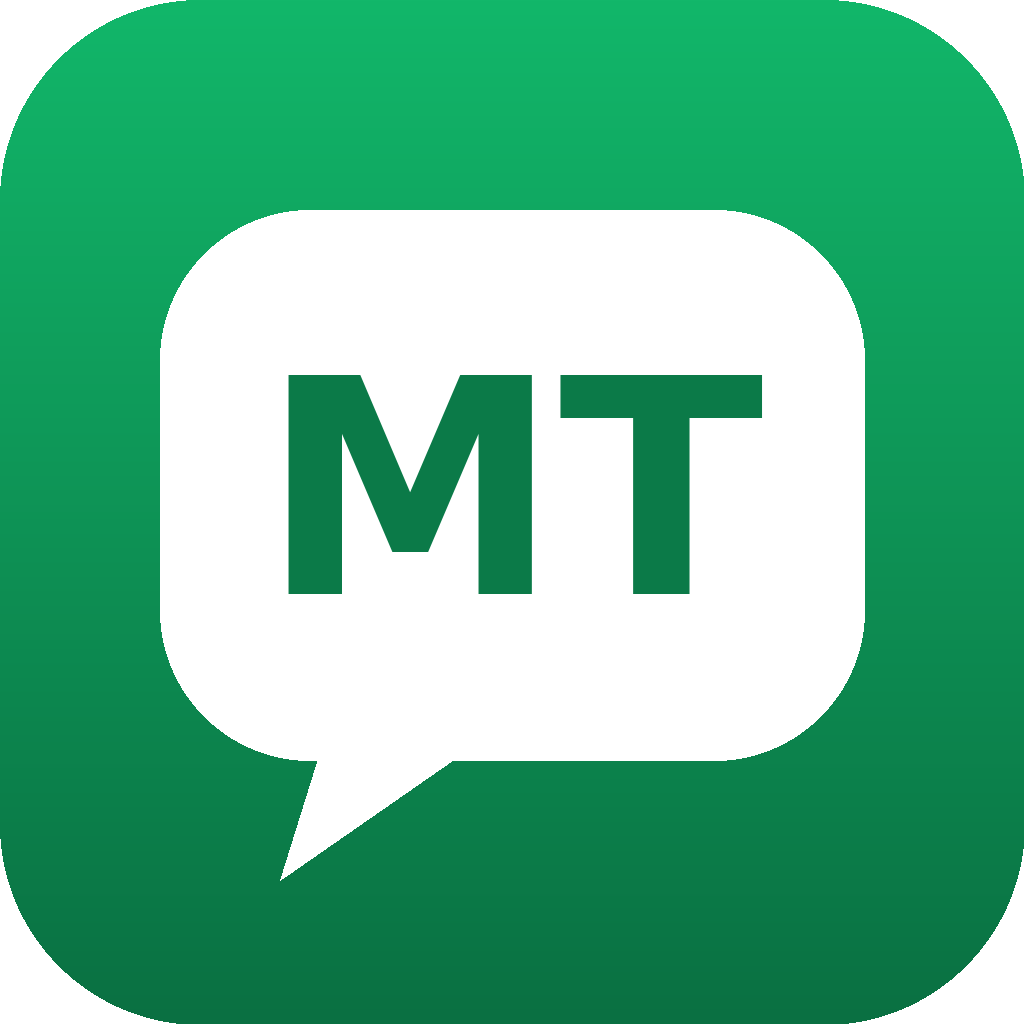
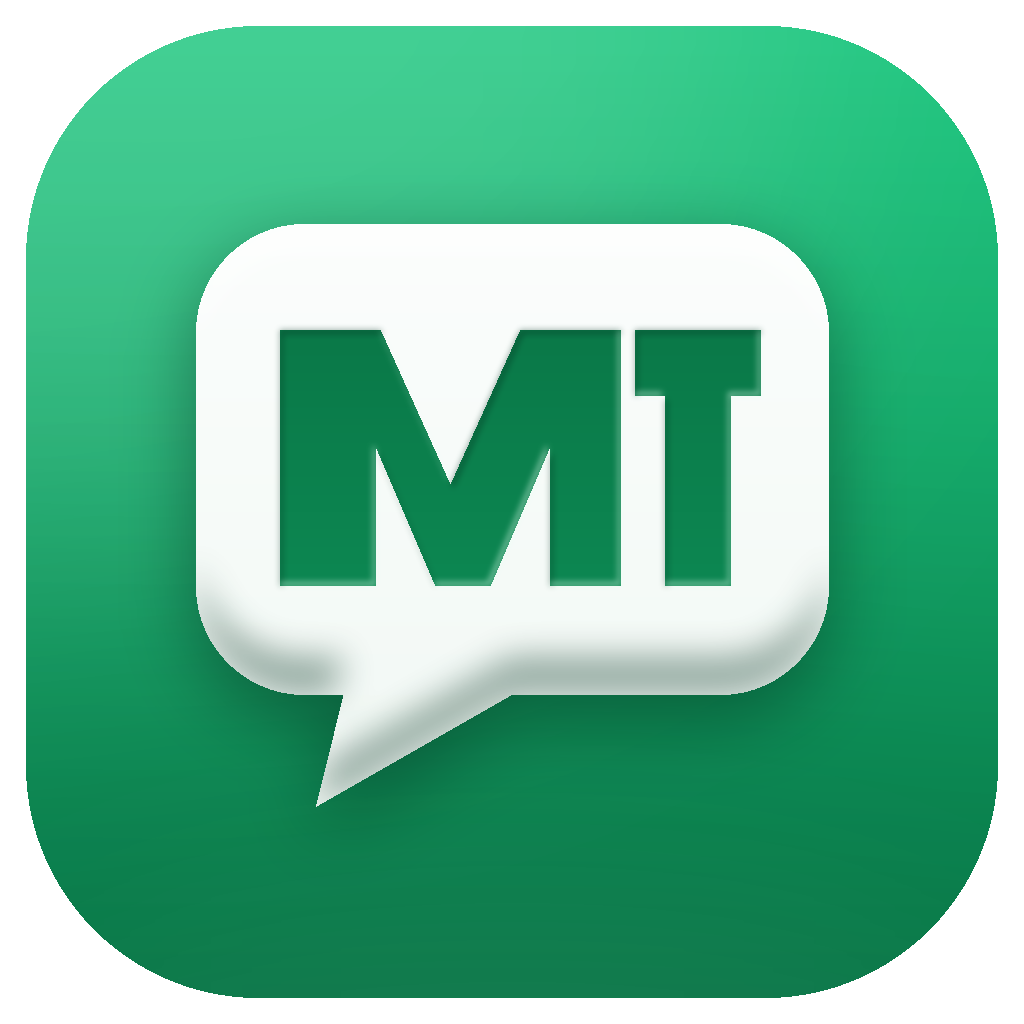
重构图标为拟态原生风格

diff --git a/tool/generate_launcher_icon.py b/tool/generate_launcher_icon.py
@@ -1,44 +1,182 @@
 #!/usr/bin/env python3
-"""Generate consistent black MT Forum launcher icons for Android and project previews."""
+"""生成拟态（Neumorphism）风格的原生质感 MT 论坛启动图标。
+
+所有尺寸都从同一张 1024px 母版缩小，保证不同密度下视觉一致；
+同时输出自适应图标（Android 8.0+）的前景 / 背景图层。
+"""
 from pathlib import Path
-from PIL import Image, ImageDraw, ImageFont
+
+from PIL import Image, ImageChops, ImageDraw, ImageFilter
 
 ROOT = Path(__file__).resolve().parents[1]
-BG = (8, 8, 8, 255)
-WHITE = (255, 255, 255, 255)
-INK = (8, 8, 8, 255)
+CANVAS = 1024
 
-def make_icon(size: int) -> Image.Image:
-    scale = size / 1024
-    im = Image.new("RGBA", (size, size), BG)
-    d = ImageDraw.Draw(im)
-    # Rounded app tile, with enough padding for Android launcher masks.
-    inset = int(72 * scale)
-    radius = int(220 * scale)
-    d.rounded_rectangle((inset, inset, size-inset, size-inset),
-                        radius=radius, fill=(18, 18, 18, 255),
-                        outline=(48, 48, 48, 255), width=max(1, int(3*scale)))
-    # Speech bubble silhouette.
-    box = (int(205*scale), int(215*scale), int(819*scale), int(690*scale))
-    d.rounded_rectangle(box, radius=int(105*scale), fill=WHITE)
-    d.polygon([(int(365*scale), int(650*scale)),
-               (int(340*scale), int(800*scale)),
-               (int(505*scale), int(680*scale))], fill=WHITE)
-    # Custom geometric MT lettermark; avoids font/device differences.
-    def poly(points):
-        d.polygon([(int(x*scale), int(y*scale)) for x,y in points], fill=INK)
-    poly([(280,330),(380,330),(450,485),(520,330),(620,330),
-          (620,585),(550,585),(550,445),(490,585),(435,585),
-          (375,445),(375,585),(280,585)])
-    poly([(635,330),(760,330),(760,395),(730,395),(730,585),
-          (665,585),(665,395),(635,395)])
-    return im
+# 表面：品牌绿的柔和渐变，顶部受光、底部压暗。
+SURFACE_TOP = (30, 200, 128)
+SURFACE_BOTTOM = (8, 136, 80)
+DEPTH = (2, 48, 30)
+LIGHT = (228, 255, 241)
 
-(ROOT / "icon_1024.png").parent.mkdir(parents=True, exist_ok=True)
-make_icon(1024).save(ROOT / "icon_1024.png", optimize=True)
-res = ROOT / "android/app/src/main/res"
-for density, size in {"mdpi":48, "hdpi":72, "xhdpi":96, "xxhdpi":144, "xxxhdpi":192}.items():
-    dest = res / f"mipmap-{density}/ic_launcher.png"
-    dest.parent.mkdir(parents=True, exist_ok=True)
-    make_icon(size).save(dest, optimize=True)
-print("Generated icon_1024.png and all Android legacy launcher PNG densities.")
+# 气泡：白色到冷灰绿，模拟亚光材质。
+BUBBLE_TOP = (255, 255, 255)
+BUBBLE_BOTTOM = (237, 246, 241)
+BUBBLE_BOX = (196, 224, 828, 694)
+BUBBLE_RADIUS = 108
+BUBBLE_TAIL = [(352, 660), (316, 806), (526, 686)]
+
+# MT 字标：内凹雕刻，上深下浅。
+LETTER_TOP = (6, 101, 59)
+LETTER_BOTTOM = (17, 160, 98)
+MT_M = [(280, 330), (380, 330), (450, 485), (520, 330), (620, 330),
+        (620, 585), (550, 585), (550, 445), (490, 585), (435, 585),
+        (375, 445), (375, 585), (280, 585)]
+MT_T = [(635, 330), (760, 330), (760, 395), (730, 395), (730, 585),
+        (665, 585), (665, 395), (635, 395)]
+
+
+def vertical_gradient(size, top, bottom):
+    strip = Image.new("RGB", (1, size))
+    px = strip.load()
+    for y in range(size):
+        t = y / max(1, size - 1)
+        px[0, y] = tuple(round(top[i] + (bottom[i] - top[i]) * t) for i in range(3))
+    return strip.resize((size, size), Image.BILINEAR).convert("RGBA")
+
+
+def soft_blob(size, box, color, blur, alpha):
+    """柔和光斑；透明区域保留同色，避免高斯模糊产生暗边。"""
+    layer = Image.new("RGBA", (size, size), tuple(color) + (0,))
+    ImageDraw.Draw(layer).ellipse(box, fill=tuple(color) + (alpha,))
+    return layer.filter(ImageFilter.GaussianBlur(blur))
+
+
+def rounded_mask(size, inset, radius):
+    mask = Image.new("L", (size, size), 0)
+    ImageDraw.Draw(mask).rounded_rectangle(
+        (inset, inset, size - inset - 1, size - inset - 1), radius=radius, fill=255)
+    return mask
+
+
+def render_surface(size, rounded):
+    img = vertical_gradient(size, SURFACE_TOP, SURFACE_BOTTOM)
+    # 左上角受光，制造柔和的隆起感。
+    img = Image.alpha_composite(img, soft_blob(size, (-340, -440, 800, 540), (255, 255, 255), 175, 42))
+    # 右下角压暗，收出体积。
+    img = Image.alpha_composite(img, soft_blob(size, (-260, 620, 1300, 1470), DEPTH, 200, 62))
+    # 底边一条极淡的反光，避免边缘发死。
+    img = Image.alpha_composite(img, soft_blob(size, (40, 910, 984, 1160), (255, 255, 255), 95, 14))
+    if rounded:
+        img.putalpha(rounded_mask(size, 26, 232))
+    return img
+
+
+def bubble_mask(size, scale):
+    mask = Image.new("L", (size, size), 0)
+    draw = ImageDraw.Draw(mask)
+
+    def point(x, y):
+        return (512 + (x - 512) * scale, 515 + (y - 515) * scale)
+
+    draw.rounded_rectangle(
+        (*point(BUBBLE_BOX[0], BUBBLE_BOX[1]), *point(BUBBLE_BOX[2], BUBBLE_BOX[3])),
+        radius=int(BUBBLE_RADIUS * scale), fill=255)
+    draw.polygon([point(x, y) for x, y in BUBBLE_TAIL], fill=255)
+    return mask
+
+
+def render_bubble(size, scale=1.0):
+    mask = bubble_mask(size, scale)
+    out = Image.new("RGBA", (size, size), (0, 0, 0, 0))
+
+    # 外投影：拟态的核心，让气泡浮在表面之上。
+    shadow = Image.new("RGBA", (size, size), DEPTH + (0,))
+    shadow.putalpha(mask.point(lambda a: int(a * 0.5)))
+    shadow = shadow.filter(ImageFilter.GaussianBlur(36 * scale))
+    shadow = ImageChops.offset(shadow, 0, int(24 * scale))
+    out = Image.alpha_composite(out, shadow)
+
+    body = vertical_gradient(size, BUBBLE_TOP, BUBBLE_BOTTOM)
+    body.putalpha(mask)
+    out = Image.alpha_composite(out, body)
+
+    # 气泡内部上缘高光（只保留边缘一条，避免整体发灰）。
+    top_rim = ImageChops.subtract(mask, ImageChops.offset(mask, 0, int(26 * scale)))
+    top_rim = top_rim.filter(ImageFilter.GaussianBlur(10 * scale))
+    top_rim = ImageChops.multiply(top_rim, mask)
+    highlight = Image.new("RGBA", (size, size), (255, 255, 255, 0))
+    highlight.putalpha(top_rim.point(lambda a: int(a * 0.6)))
+    out = Image.alpha_composite(out, highlight)
+
+    # 气泡内部下缘暗部。
+    bottom_rim = ImageChops.subtract(mask, ImageChops.offset(mask, 0, -int(38 * scale)))
+    bottom_rim = bottom_rim.filter(ImageFilter.GaussianBlur(16 * scale))
+    bottom_rim = ImageChops.multiply(bottom_rim, mask)
+    inner = Image.new("RGBA", (size, size), DEPTH + (0,))
+    inner.putalpha(bottom_rim.point(lambda a: int(a * 0.42)))
+    out = Image.alpha_composite(out, inner)
+
+    # MT 字标：内凹雕刻——上缘压暗、下缘提亮，保持边缘清晰。
+    letters = Image.new("L", (size, size), 0)
+    draw = ImageDraw.Draw(letters)
+
+    def point(x, y):
+        return (512 + (x - 512) * scale, 515 + (y - 515) * scale)
+
+    draw.polygon([point(x, y) for x, y in MT_M], fill=255)
+    draw.polygon([point(x, y) for x, y in MT_T], fill=255)
+
+    letter_fill = vertical_gradient(size, LETTER_TOP, LETTER_BOTTOM)
+    letter_fill.putalpha(letters)
+    out = Image.alpha_composite(out, letter_fill)
+
+    # 左上内阴影 + 右下内高光，模拟字体被压入亚光表面。
+    upper = ImageChops.offset(letters, int(3 * scale), int(4 * scale))
+    lower = ImageChops.offset(letters, -int(3 * scale), -int(4 * scale))
+    top_edge = ImageChops.subtract(letters, upper).filter(ImageFilter.GaussianBlur(3 * scale))
+    bottom_edge = ImageChops.subtract(letters, lower).filter(ImageFilter.GaussianBlur(3 * scale))
+
+    shade = Image.new("RGBA", (size, size), DEPTH + (0,))
+    shade.putalpha(top_edge.point(lambda a: int(a * 0.5)))
+    out = Image.alpha_composite(out, shade)
+
+    sheen = Image.new("RGBA", (size, size), LIGHT + (0,))
+    sheen.putalpha(bottom_edge.point(lambda a: int(a * 0.55)))
+    out = Image.alpha_composite(out, sheen)
+    return out
+
+
+def save(image, path):
+    path.parent.mkdir(parents=True, exist_ok=True)
+    image.save(path, optimize=True)
+
+
+def sizes_for(base):
+    return {
+        "mdpi": base,
+        "hdpi": round(base * 1.5),
+        "xhdpi": base * 2,
+        "xxhdpi": base * 3,
+        "xxxhdpi": base * 4,
+    }
+
+
+def main():
+    legacy = Image.alpha_composite(render_surface(CANVAS, rounded=True), render_bubble(CANVAS))
+    background = render_surface(CANVAS, rounded=False)
+    foreground = render_bubble(CANVAS, 0.86)
+
+    save(legacy, ROOT / "icon_1024.png")
+
+    res = ROOT / "android/app/src/main/res"
+    for density, size in sizes_for(48).items():
+        save(legacy.resize((size, size), Image.LANCZOS), res / f"mipmap-{density}/ic_launcher.png")
+    for density, size in sizes_for(108).items():
+        save(background.resize((size, size), Image.LANCZOS),
+             res / f"mipmap-{density}/ic_launcher_background.png")
+        save(foreground.resize((size, size), Image.LANCZOS),
+             res / f"mipmap-{density}/ic_launcher_foreground.png")
+    print("Generated neumorphic launcher icons (legacy + adaptive foreground/background).")
+
+
+if __name__ == "__main__":
+    main()
